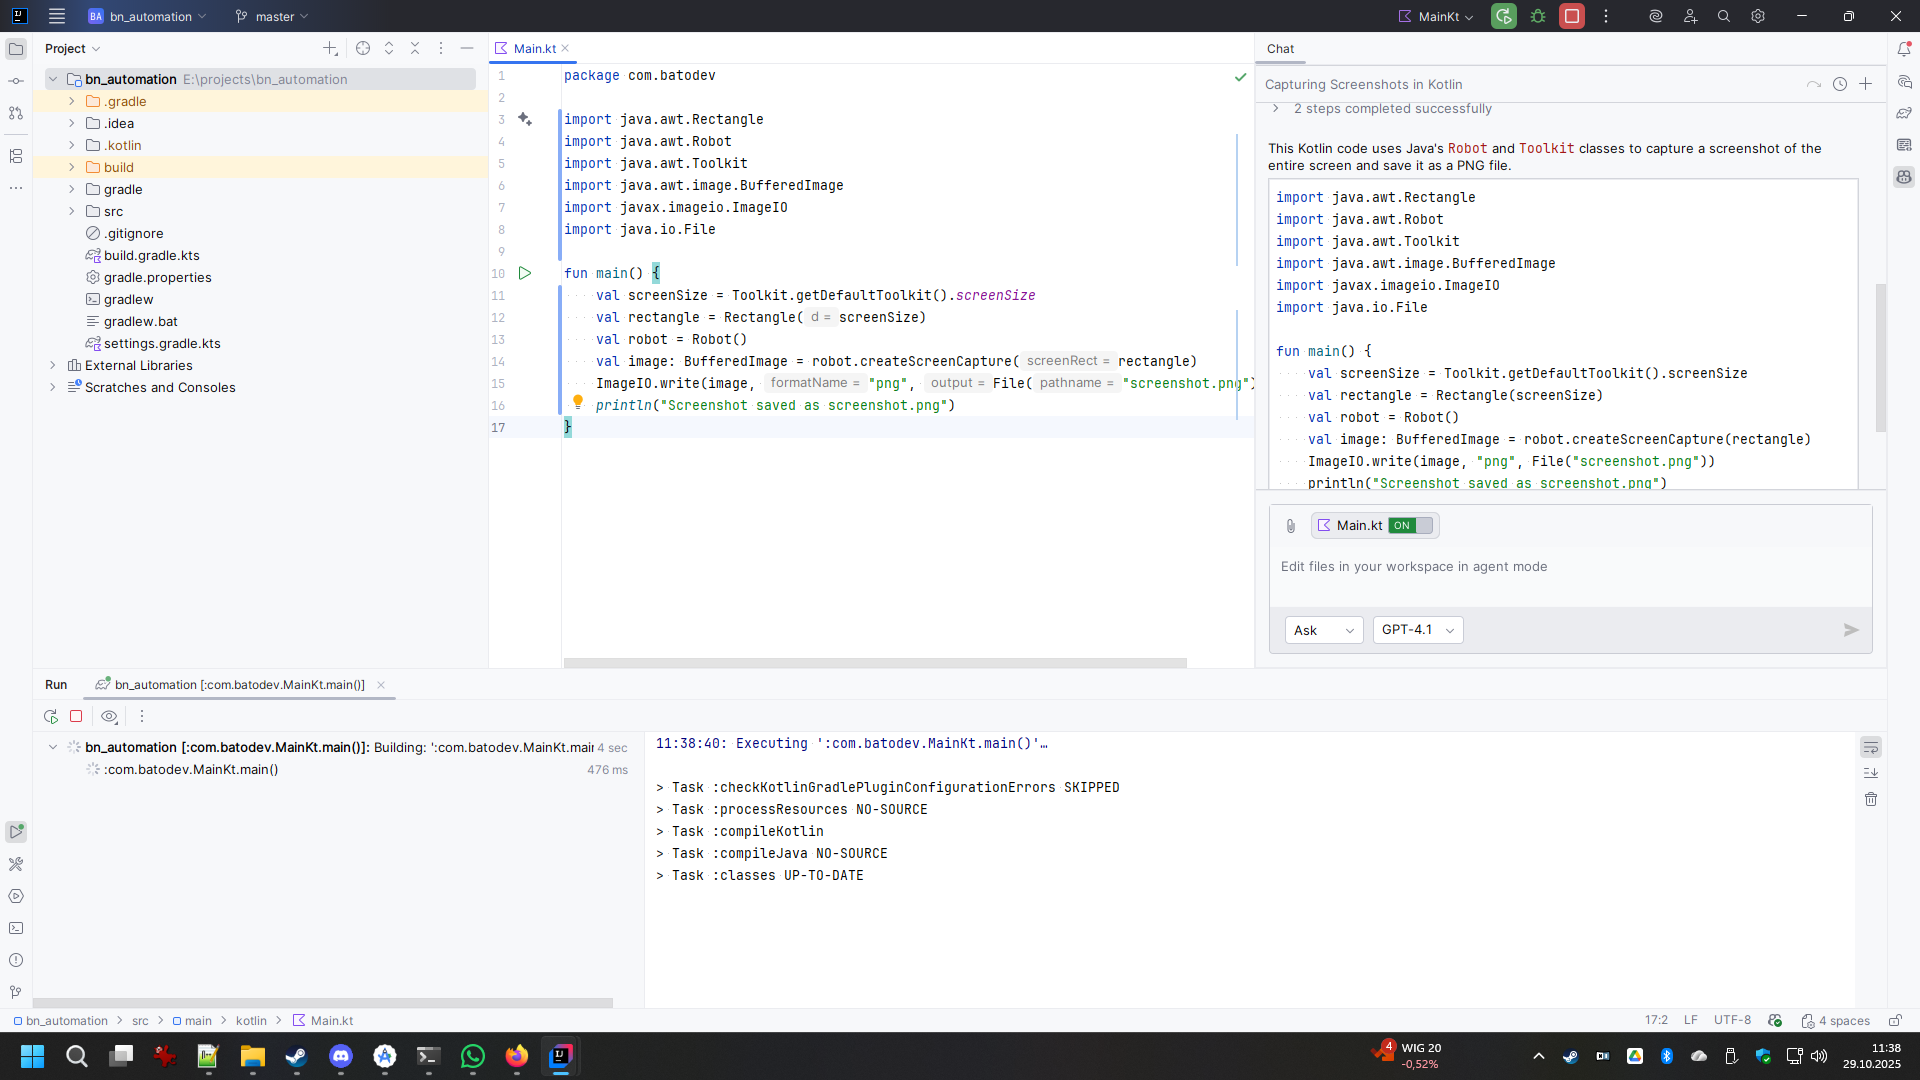
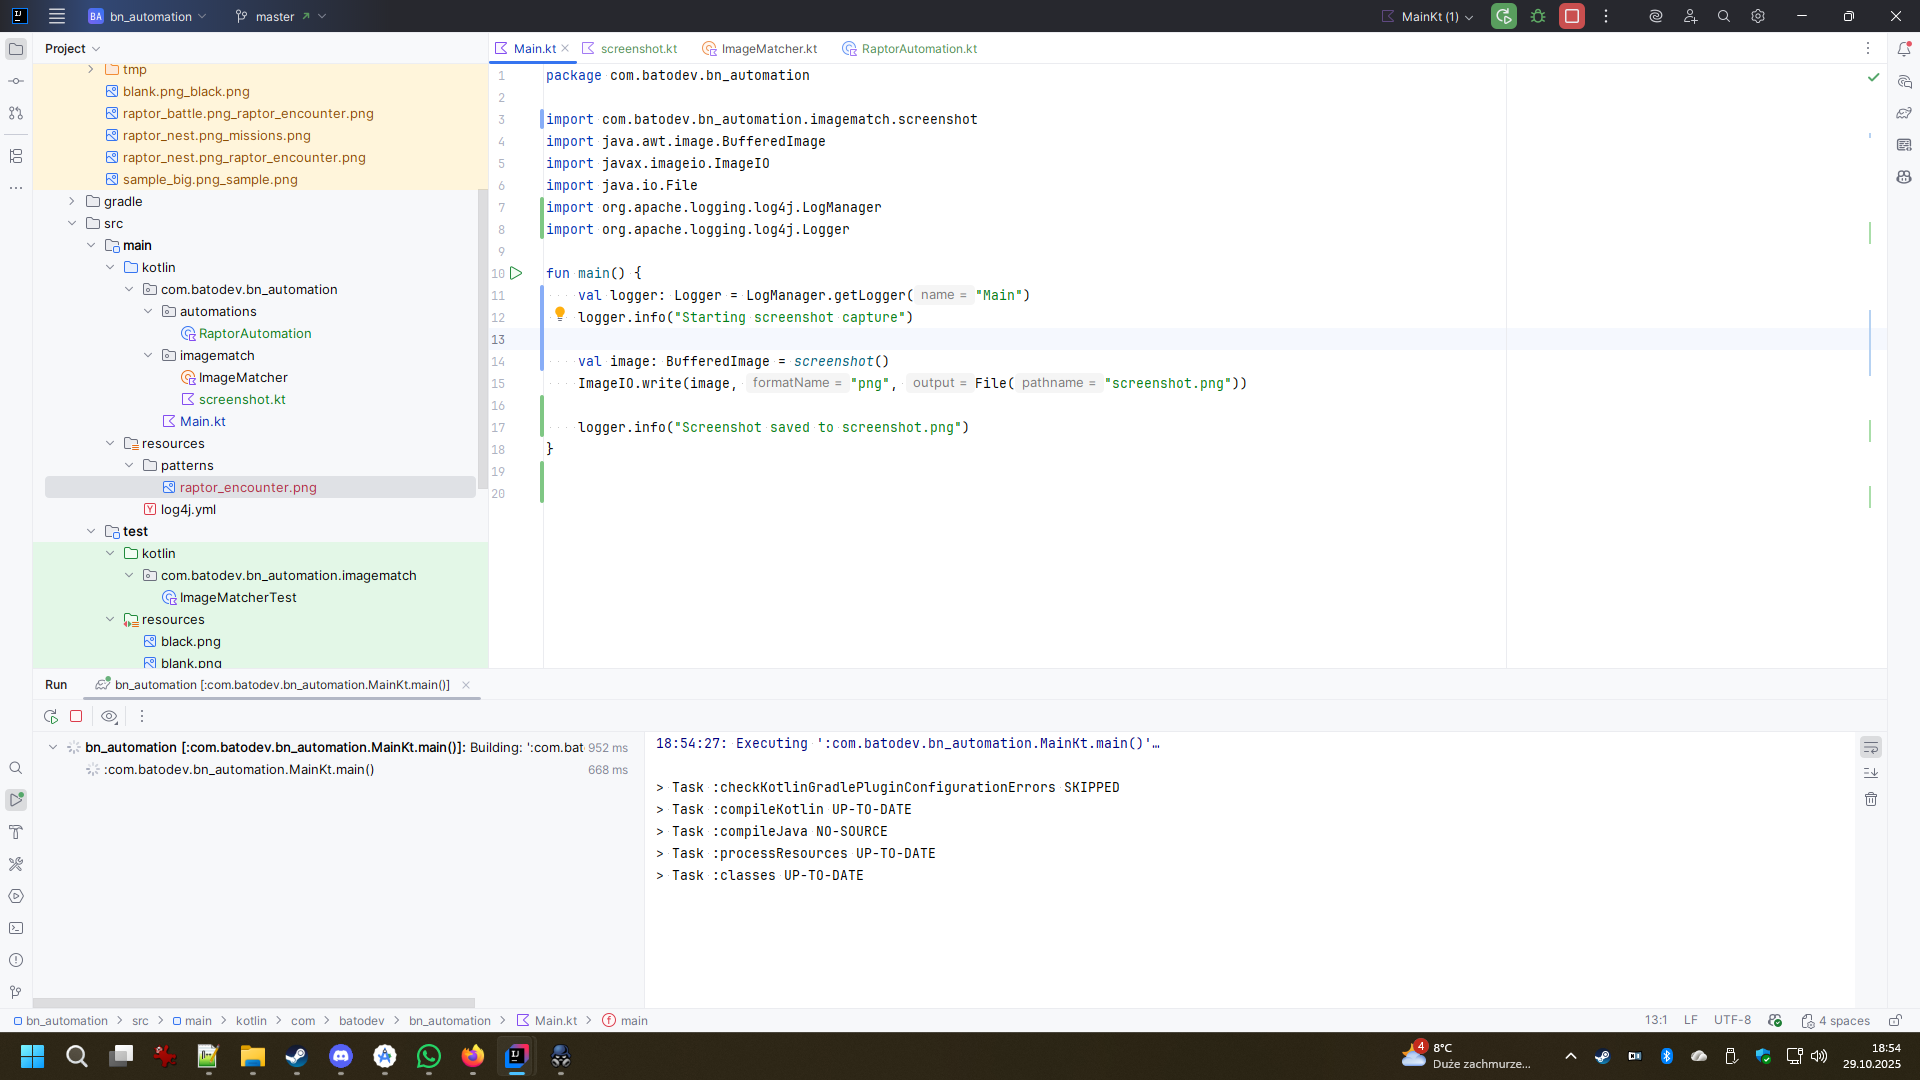
feat: working raptor fight

diff --git a/src/main/kotlin/com/batodev/bn_automation/automations/RaptorAutomation.kt b/src/main/kotlin/com/batodev/bn_automation/automations/RaptorAutomation.kt
@@ -1,0 +1,86 @@
+package com.batodev.bn_automation.automations
+
+import com.batodev.bn_automation.imagematch.ImageMatcher
+import com.batodev.bn_automation.imagematch.screenshot
+import com.batodev.bn_automation.logging.logInfo
+import org.apache.logging.log4j.LogManager
+import org.apache.logging.log4j.Logger
+import java.awt.Robot
+import java.awt.event.InputEvent
+import javax.imageio.ImageIO
+
+class RaptorAutomation {
+    val logger: Logger = LogManager.getLogger(RaptorAutomation::class.java)
+
+    fun automate() {
+        click("/patterns/raptor_encounter.png")
+        click("/patterns/available_button.png")
+        click("/patterns/aircraft_button.png")
+        click("/patterns/pelican_pick.png", 1)
+        click("/patterns/pelican_pick.png", 1)
+        click("/patterns/pelican_pick.png", 1)
+        click("/patterns/fight_button.png")
+        while (!ifThereClickIt("/patterns/ok_button.png", 1, 1, 0.05f)) {
+            drag("/patterns/crosshair_icon.png", "/patterns/raptor_unit.png", 3, 2, 0.1f)
+            click("/patterns/crosshair_icon.png")
+            click("/patterns/pass_button.png")
+            click("/patterns/pass_button.png")
+            click("/patterns/pass_button.png")
+            click("/patterns/pass_button.png")
+        }
+        click("/patterns/green_ok_button.png")
+    }
+
+    fun drag(fromPatternPath: String, toPatternPath: String, wait: Int = 2, step: Int = 3, maxConfidence: Float = 0.2f) {
+        Thread.sleep(wait * 1000L)
+        val screenshot = screenshot()
+        val fromImage = ImageIO.read(this::class.java.getResourceAsStream(fromPatternPath))
+        val toImage = ImageIO.read(this::class.java.getResourceAsStream(toPatternPath))
+        val fromMatch = ImageMatcher.find(fromImage, screenshot, step, maxConfidence)
+        val toMatch = ImageMatcher.find(toImage, screenshot, step, maxConfidence)
+        logInfo("$fromPatternPath match at (${fromMatch.x}, ${fromMatch.y}) with score ${fromMatch.score}", logger)
+        logInfo("$toPatternPath match at (${toMatch.x}, ${toMatch.y}) with score ${toMatch.score}", logger)
+        val robot = Robot()
+        robot.mouseMove(fromMatch.x, fromMatch.y)
+        robot.mousePress(InputEvent.BUTTON1_DOWN_MASK)
+        Thread.sleep(500L)
+        robot.mouseMove(toMatch.x, toMatch.y)
+        Thread.sleep(500L)
+        robot.mouseRelease(InputEvent.BUTTON1_DOWN_MASK)
+        logInfo("Dragged from (${fromMatch.x}, ${fromMatch.y}) to (${toMatch.x}, ${toMatch.y})", logger)
+    }
+
+    fun click(patternImagePath: String, wait: Int = 3, step: Int = 3, maxConfidence: Float = 0.2f) {
+        Thread.sleep(wait * 1000L)
+        val screenshot = screenshot()
+        val raptorEncounter = ImageIO.read(this::class.java.getResourceAsStream(patternImagePath))
+        val match = ImageMatcher.find(raptorEncounter, screenshot, step, maxConfidence)
+        logInfo("$patternImagePath match at (${match.x}, ${match.y}) with score ${match.score}", logger)
+        val robot = Robot()
+        robot.mouseMove(match.x, match.y)
+        robot.mousePress(InputEvent.BUTTON1_DOWN_MASK)
+        Thread.sleep(500L)
+        robot.mouseRelease(InputEvent.BUTTON1_DOWN_MASK)
+        logInfo("Clicked at (${match.x}, ${match.y})", logger)
+    }
+
+    fun ifThereClickIt(patternImagePath: String, wait: Int = 3, step: Int = 3, maxConfidence: Float = 0.2f): Boolean {
+        Thread.sleep(wait * 1000L)
+        val screenshot = screenshot()
+        val patternImage = ImageIO.read(this::class.java.getResourceAsStream(patternImagePath))
+        val match = ImageMatcher.find(patternImage, screenshot, step, 1.0f) // Use high maxConfidence to always get a result
+        logInfo("$patternImagePath match at (${match.x}, ${match.y}) with score ${match.score}", logger)
+        if (match.score <= maxConfidence) {
+            val robot = Robot()
+            robot.mouseMove(match.x, match.y)
+            robot.mousePress(InputEvent.BUTTON1_DOWN_MASK)
+            Thread.sleep(500L)
+            robot.mouseRelease(InputEvent.BUTTON1_DOWN_MASK)
+            logInfo("Clicked at (${match.x}, ${match.y})", logger)
+            return true
+        } else {
+            logInfo("No confident match for $patternImagePath (score: ${match.score}, threshold: $maxConfidence)", logger)
+            return false
+        }
+    }
+}

diff --git a/src/main/kotlin/com/batodev/bn_automation/imagematch/ImageMatcher.kt b/src/main/kotlin/com/batodev/bn_automation/imagematch/ImageMatcher.kt
@@ -1,5 +1,6 @@
 package com.batodev.bn_automation.imagematch
 
+import com.batodev.bn_automation.logging.logInfo
 import java.awt.image.BufferedImage
 import java.util.Collections
 import java.util.concurrent.ExecutorService
@@ -15,16 +16,16 @@ object ImageMatcher {
     @JvmRecord
     data class MatchResult(val x: Int, val y: Int, val score: Double)
 
-    fun find(needleImage: BufferedImage, haystackImage: BufferedImage) : MatchResult {
-        val step = 3
+    fun find(needleImage: BufferedImage, haystackImage: BufferedImage, step: Int = 3, maxConfidence: Float = 0.2f) : MatchResult {
         val needleSample: Array<IntArray>? = sample(needleImage, step)
         val haystackSample: Array<IntArray>? = sample(haystackImage, step)
 
         val startTime = System.currentTimeMillis()
-        val matches = match(needleSample, haystackSample, step)
+        val match = match(needleSample, haystackSample, step).find { (_, _, score) -> score <= maxConfidence }
+            ?: throw IllegalStateException("No match found with confidence <= $maxConfidence")
         val endTime = System.currentTimeMillis()
-        logger.info("match() took {} ms", (endTime - startTime))
-        return matches[0]
+        logInfo("match() took ${endTime - startTime} ms", logger)
+        return match
     }
 
     fun match(
@@ -47,7 +48,6 @@ object ImageMatcher {
         val maxStartY = hRows - nRows
         val maxStartX = hCols - nCols
 
-        val numThreads = Runtime.getRuntime().availableProcessors()
         val results: MutableList<MatchResult> =
             Collections.synchronizedList(ArrayList())
 
@@ -56,7 +56,7 @@ object ImageMatcher {
         val needleWidth = nCols * step
         val needleHeight = nRows * step
 
-        val executor: ExecutorService = Executors.newFixedThreadPool(numThreads)
+        val executor: ExecutorService = Executors.newVirtualThreadPerTaskExecutor()
         try {
             for (sy in 0..maxStartY) {
                 executor.execute {

diff --git a/src/main/kotlin/com/batodev/bn_automation/Main.kt b/src/main/kotlin/com/batodev/bn_automation/Main.kt
@@ -1,16 +1,7 @@
 package com.batodev.bn_automation
 
-import java.awt.Rectangle
-import java.awt.Robot
-import java.awt.Toolkit
-import java.awt.image.BufferedImage
-import javax.imageio.ImageIO
-import java.io.File
+import com.batodev.bn_automation.automations.RaptorAutomation
 
 fun main() {
-    val screenSize = Toolkit.getDefaultToolkit().screenSize
-    val rectangle = Rectangle(screenSize)
-    val robot = Robot()
-    val image: BufferedImage = robot.createScreenCapture(rectangle)
-    ImageIO.write(image, "png", File("screenshot.png"))
+    RaptorAutomation().automate()
 }

diff --git a/src/main/kotlin/com/batodev/bn_automation/imagematch/screenshot.kt b/src/main/kotlin/com/batodev/bn_automation/imagematch/screenshot.kt
@@ -1,0 +1,14 @@
+package com.batodev.bn_automation.imagematch
+
+import java.awt.Rectangle
+import java.awt.Robot
+import java.awt.Toolkit
+import java.awt.image.BufferedImage
+
+fun screenshot(): BufferedImage {
+    val screenSize = Toolkit.getDefaultToolkit().screenSize
+    val rectangle = Rectangle(screenSize)
+    val robot = Robot()
+    val image: BufferedImage = robot.createScreenCapture(rectangle)
+    return image
+}

diff --git a/src/main/kotlin/com/batodev/bn_automation/logging/logInfo.kt b/src/main/kotlin/com/batodev/bn_automation/logging/logInfo.kt
@@ -1,0 +1,13 @@
+package com.batodev.bn_automation.logging
+
+import org.apache.logging.log4j.Logger
+
+fun logInfo(message: String, logger: Logger) {
+    logger.info(message)
+    println(message)
+}
+
+fun logDebug(message: String, logger: Logger) {
+    logger.debug(message)
+    println(message)
+}
